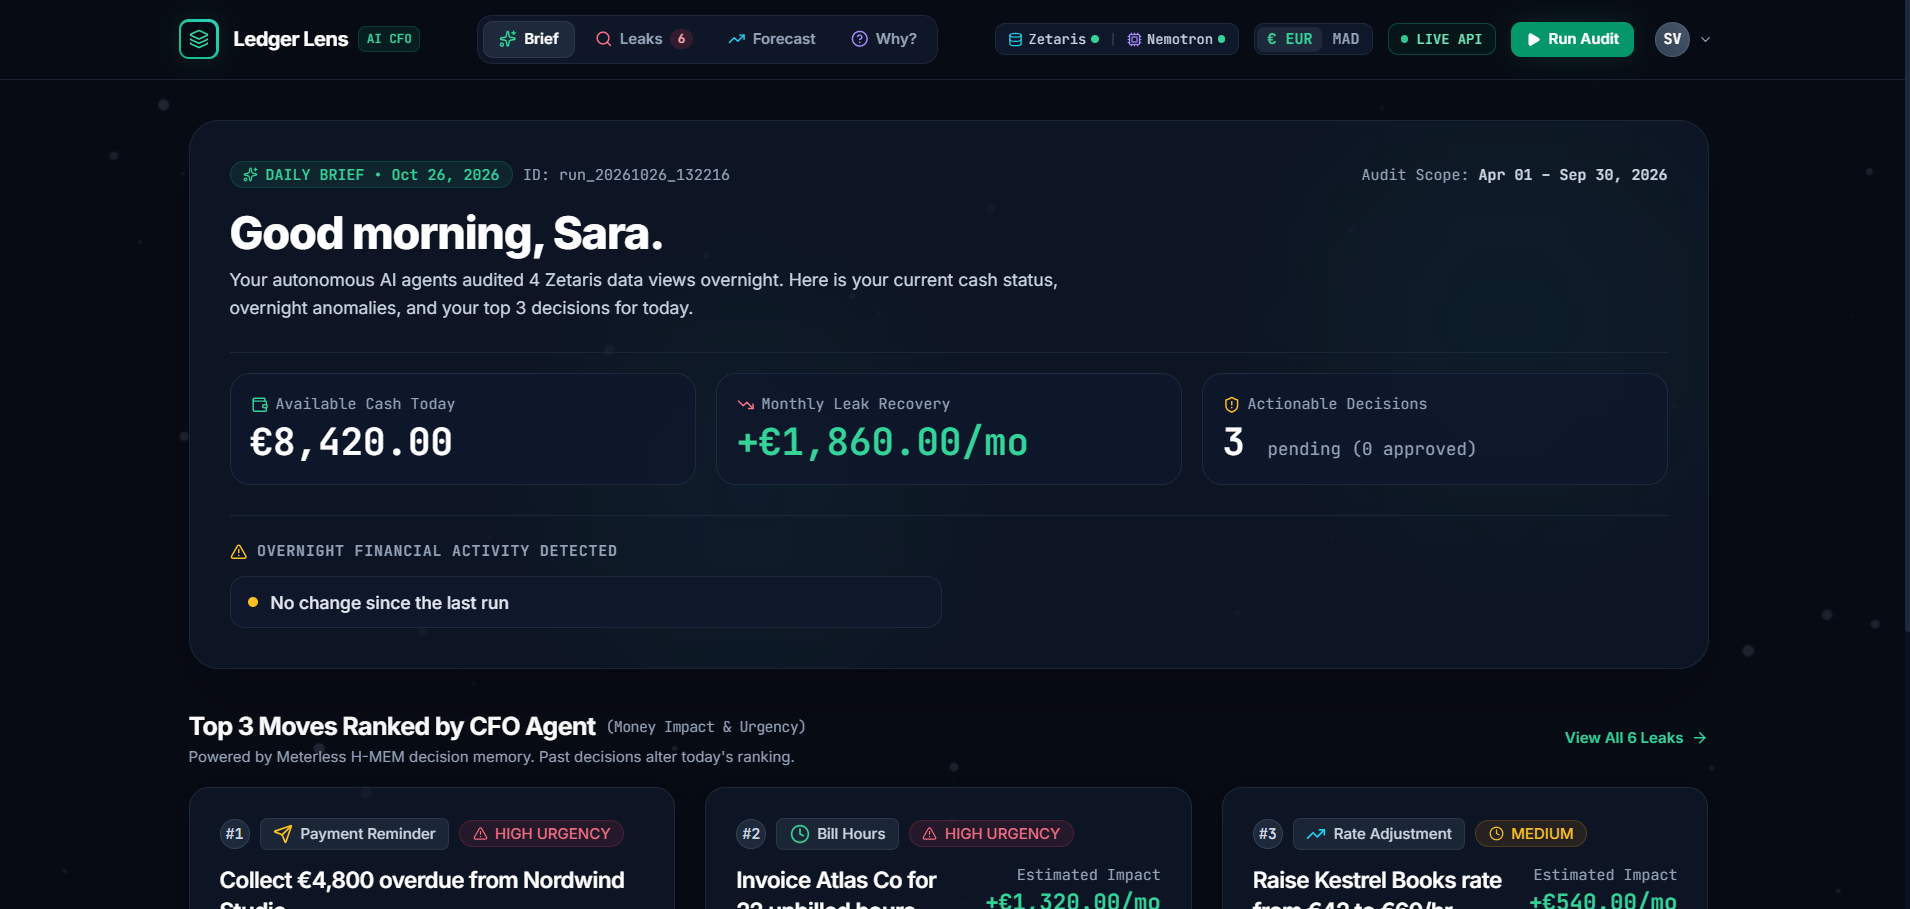
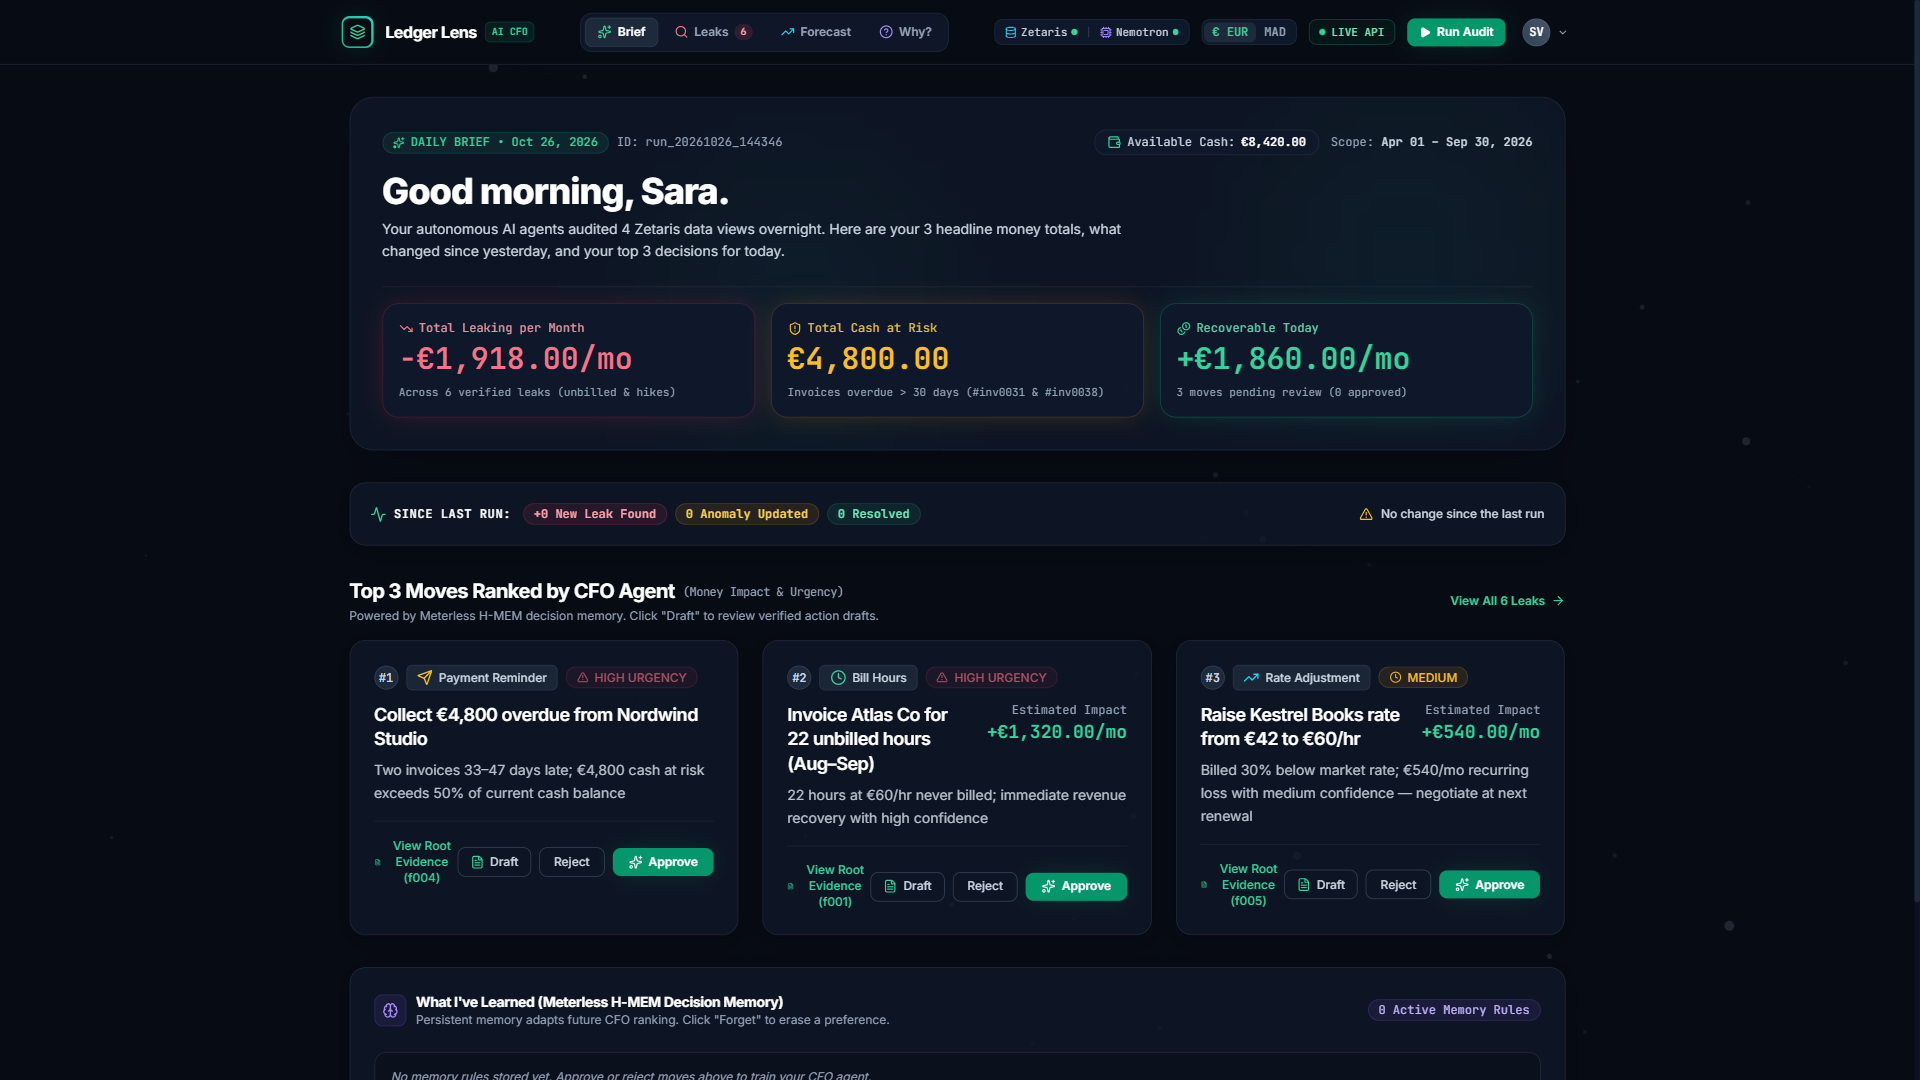
fix(web): review of P6 UI on a live run
- api.ts: DELETE /api/memories/:id returns 204 with no body; request() no
  longer calls res.json() on it, so "Forget" updates the panel.
- App.tsx: the default "Why?" answer no longer blocks the whole page load;
  backend explain() reuses the run's own answer to the default question
  (was a second live Explainer run, about a minute, on every page load).
- RunModal timeline: start/done are per-step events, shown as
  "<Agent> started/finished" instead of repeated "Run Initialized" /
  "Run Completed"; checks_done reads {ran, failed}; the critic line says
  "backup answer used" when the revision failed instead of always
  "revised"; world_model_ingested gets its own World Model line.
- Client 360 "Simulate losing <client>" now opens Forecast on that client
  and runs the loss (it only showed a toast before).
- README: forecast caption was €14,400 (wrong live figure); the data gives
  €1,200/month received for Nordwind, so €7,200 over six months. Retook
  forecast-whatif.png and brief.png (now with the I5 money headline).

diff --git a/web/src/components/RunModal.tsx b/web/src/components/RunModal.tsx
@@ -151,10 +151,10 @@ export const RunModal: React.FC<RunModalProps> = ({ isOpen, onClose, onRunComple
   const formatTraceEvent = (line: TraceLine) => {
     switch (line.event) {
       case 'checks_done': {
-        const d = line.data as { count?: number; view?: string };
+        const d = line.data as { ran?: number; failed?: number };
         return {
           icon: <Search className="w-3.5 h-3.5 text-emerald-400" />,
-          title: `${d?.count ?? 6} SQL Checks on Zetaris`,
+          title: `${d?.ran ?? 6} SQL Checks on Zetaris${d?.failed ? ` · ${d.failed} failed` : ''}`,
           subtitle: 'Scanned client_profitability, subscription_usage, ar_aging, cash_position',
           badge: 'ZETARIS',
           badgeClass: 'bg-emerald-500/10 text-emerald-400 border-emerald-500/20',
@@ -185,10 +185,11 @@ export const RunModal: React.FC<RunModalProps> = ({ isOpen, onClose, onRunComple
       }
       case 'critique': {
         const d = line.data as CritiqueData;
+        const n = d?.problems?.length ?? 1;
         return {
           icon: <RefreshCw className="w-3.5 h-3.5 text-amber-400" />,
-          title: `Critic: ${d?.problems?.length ?? 1} ungrounded amount → revised`,
-          subtitle: 'G1 Critic loop detected fabricated number and enforced evidence adherence',
+          title: `Critic (${d?.agent ?? 'agent'}): ${n} problem${n === 1 ? '' : 's'} → ${d?.revised ? 'revised' : 'backup answer used'}`,
+          subtitle: d?.problems?.[0] ?? 'G1 critic loop checked the answer against the evidence',
           badge: 'CRITIC LOOP (G1)',
           badgeClass: 'bg-amber-500/15 text-amber-300 border-amber-500/30',
         };
@@ -212,22 +213,30 @@ export const RunModal: React.FC<RunModalProps> = ({ isOpen, onClose, onRunComple
           badgeClass: 'bg-rose-500/10 text-rose-400 border-rose-500/20',
         };
       }
-      case 'start':
+      case 'world_model_ingested': {
+        const d = line.data as { entities?: number };
         return {
-          icon: <Play className="w-3.5 h-3.5 text-emerald-400" />,
-          title: 'Run Initialized',
-          subtitle: `Session ID ${line.run_id}`,
+          icon: <Sparkles className="w-3.5 h-3.5 text-teal-400" />,
+          title: `World Model · ${d?.entities ?? 0} entities ingested`,
+          subtitle: 'Clients and subscriptions linked to their findings for Client 360',
+          badge: 'METERLESS WORLD MODEL',
+          badgeClass: 'bg-teal-500/10 text-teal-400 border-teal-500/20',
+        };
+      }
+      // start/done mark each agent step, not the whole run
+      case 'start':
+      case 'done': {
+        const label = STEPS.find((s) => s.key === line.step)?.label ?? line.step ?? 'Step';
+        return {
+          icon: line.event === 'start'
+            ? <Play className="w-3.5 h-3.5 text-emerald-400" />
+            : <CheckCircle2 className="w-3.5 h-3.5 text-emerald-400" />,
+          title: `${label} ${line.event === 'start' ? 'started' : 'finished'}`,
+          subtitle: `Run ${line.run_id}`,
           badge: 'ORCHESTRATOR',
           badgeClass: 'bg-slate-800 text-slate-300 border-slate-700',
         };
-      case 'done':
-        return {
-          icon: <CheckCircle2 className="w-3.5 h-3.5 text-emerald-400" />,
-          title: 'Run Completed & Views Synchronized',
-          subtitle: 'Brief, Leaks, Forecast and Action Drafts updated',
-          badge: 'SUCCESS',
-          badgeClass: 'bg-emerald-500/20 text-emerald-300 border-emerald-500/30',
-        };
+      }
       default:
         return {
           icon: <Terminal className="w-3.5 h-3.5 text-slate-400" />,

diff --git a/web/src/App.tsx b/web/src/App.tsx
@@ -47,19 +47,20 @@ export const App: React.FC = () => {
   const loadData = useCallback(async () => {
     setLoading(true);
     try {
-      const [hRes, bRes, fRes, fcRes, expRes] = await Promise.allSettled([
+      // The explanation can be a live model call: load it without holding back the rest of the page.
+      api.explain('Why did my margin drop in September?').then(setExplanation).catch(() => {});
+
+      const [hRes, bRes, fRes, fcRes] = await Promise.allSettled([
         api.getHealth(),
         api.getBrief(),
         api.getFindings(),
         api.getForecast(),
-        api.explain('Why did my margin drop in September?'),
       ]);
 
       if (hRes.status === 'fulfilled') setHealth(hRes.value);
       if (bRes.status === 'fulfilled') setBrief(bRes.value);
       if (fRes.status === 'fulfilled') setFindings(fRes.value);
       if (fcRes.status === 'fulfilled') setForecast(fcRes.value);
-      if (expRes.status === 'fulfilled') setExplanation(expRes.value);
     } finally {
       setLoading(false);
     }
@@ -130,9 +131,12 @@ export const App: React.FC = () => {
   };
 
   // Simulate loss of client from EntityDrawer
+  const [autoLoseClientId, setAutoLoseClientId] = useState<string | null>(null);
+  const clearAutoLoss = useCallback(() => setAutoLoseClientId(null), []);
   const handleSimulateLoss = (clientId: string) => {
+    setAutoLoseClientId(clientId);
     setActiveTab('forecast');
-    showToast(`Simulation configured: losing client ${clientId}`);
+    showToast(`Simulating the loss of client ${clientId}`);
   };
 
   // Custom question for Explainer
@@ -188,6 +192,8 @@ export const App: React.FC = () => {
             baselineForecast={forecast}
             loading={loading}
             onRunWhatIf={handleRunWhatIf}
+            autoLoseClientId={autoLoseClientId}
+            onAutoLossHandled={clearAutoLoss}
           />
         )}
 

diff --git a/web/src/pages/ForecastPage.tsx b/web/src/pages/ForecastPage.tsx
@@ -1,4 +1,4 @@
-import React, { useState } from 'react';
+import React, { useEffect, useState } from 'react';
 import {
   TrendingUp,
   AlertTriangle,
@@ -24,18 +24,35 @@ interface ForecastPageProps {
   baselineForecast: Forecast | null;
   loading: boolean;
   onRunWhatIf: (scenario: Scenario) => Promise<{ baseline: Forecast; scenario: Forecast }>;
+  /** Set by the Client 360 drawer's "Simulate losing" button: run that loss as soon as the page opens. */
+  autoLoseClientId?: string | null;
+  onAutoLossHandled?: () => void;
 }
 
 export const ForecastPage: React.FC<ForecastPageProps> = ({
   baselineForecast,
   loading,
   onRunWhatIf,
+  autoLoseClientId,
+  onAutoLossHandled,
 }) => {
   const [scenarioForecast, setScenarioForecast] = useState<Forecast | null>(null);
   const [activeScenarioType, setActiveScenarioType] = useState<'none' | 'lose_client' | 'raise_prices'>('none');
-  const [selectedClient, setSelectedClient] = useState('c01');
+  const [selectedClient, setSelectedClient] = useState(autoLoseClientId ?? 'c01');
   const [priceHikePct, setPriceHikePct] = useState(10);
   const [isSimulating, setIsSimulating] = useState(false);
+
+  useEffect(() => {
+    if (!autoLoseClientId || loading || !baselineForecast) return;
+    onAutoLossHandled?.();
+    setSelectedClient(autoLoseClientId);
+    setActiveScenarioType('lose_client');
+    setIsSimulating(true);
+    onRunWhatIf({ type: 'lose_client', client_id: autoLoseClientId })
+      .then((res) => setScenarioForecast(res.scenario))
+      .catch(() => {})
+      .finally(() => setIsSimulating(false));
+  }, [autoLoseClientId, loading, baselineForecast, onRunWhatIf, onAutoLossHandled]);
 
   if (loading || !baselineForecast) {
     return (

diff --git a/backend/test/orchestrator.test.ts b/backend/test/orchestrator.test.ts
@@ -210,6 +210,22 @@ test('G2: a medium-confidence finding triggers the Explainer escalation step and
   expect(escalated?.data).toMatchObject({ finding_ids: ['f005'], reason: 'low_confidence' });
 });
 
+test("explain() reuses the run's answer to the default question instead of calling the Explainer again", async () => {
+  let calls = 0;
+  const { o } = make({
+    explainer: async (_ctx: unknown, input: { question: string }) => {
+      calls++;
+      return { question: input.question, summary: `answer ${calls}`, causes: [], uncertain: false, uncertainty_note: null };
+    },
+  });
+  await o.wait(o.startRun().run_id);
+  const afterRun = calls;
+  expect((await o.explain('Why did my margin drop in September?', null)).summary).toBe(o.latest().explanation.summary);
+  expect(calls).toBe(afterRun);
+  await o.explain('Why is cash low?', null);
+  expect(calls).toBe(afterRun + 1);
+});
+
 test('G2: an unconfirmed finding is noted in its move reason, and the finding itself is untouched', async () => {
   const { o } = make({
     explainer: async (_ctx: unknown, input: { question: string; finding_id: string | null }) => ({

diff --git a/backend/src/agents/orchestrator.ts b/backend/src/agents/orchestrator.ts
@@ -211,7 +211,9 @@ export function createOrchestrator(deps: OrchestratorDeps) {
     },
     latest,
     async explain(question: string, findingId: string | null): Promise<Explanation> {
-      const { findings, brief } = latest();
+      const { findings, brief, explanation } = latest();
+      // the run already answered the default question: no need for a second minute of Nemotron calls
+      if (question === DEFAULT_QUESTION && !findingId) return explanation;
       return runAgent(brief.run_id, 'explainer', ctx => agents.explainer(ctx, { question, finding_id: findingId, findings }));
     },
     async whatIf(scenario: Scenario): Promise<{ baseline: Forecast; scenario: Forecast }> {

diff --git a/web/src/api.ts b/web/src/api.ts
@@ -98,6 +98,8 @@ class ApiService {
       throw error;
     }
 
+    // 204 No Content (DELETE /api/memories/:id) has no body to parse
+    if (res.status === 204) return undefined as T;
     return res.json() as Promise<T>;
   }
 

diff --git a/README.md b/README.md
@@ -23,9 +23,9 @@ Ledger Lens is an AI finance team that finds those leaks for her. Four agents re
 
 ## Screenshots
 
-From a live run (Zetaris views, Nemotron through Nightshift), 26 Oct 2026.
+From live runs with Nemotron through Nightshift, 26 Oct 2026.
 
-**Morning brief:** cash today, monthly leak recovery, and the three moves ranked by the CFO agent.
+**Morning brief:** what leaks per month, the cash at risk, what today's three moves recover, what changed since the last run, and the three moves ranked by the CFO agent.
 
 ![Morning brief](docs/screenshots/brief.png)
 
@@ -37,7 +37,7 @@ From a live run (Zetaris views, Nemotron through Nightshift), 26 Oct 2026.
 
 ![Evidence drawer for the Nordwind late payer](docs/screenshots/leaks-evidence.png)
 
-**Forecast and what-if:** six months of cash computed in code; here, losing Nordwind Studio costs €14,400.
+**Forecast and what-if:** six months of cash computed in code; here, losing Nordwind Studio costs €7,200 over six months.
 
 ![Forecast with the lose-a-client what-if](docs/screenshots/forecast-whatif.png)
 
